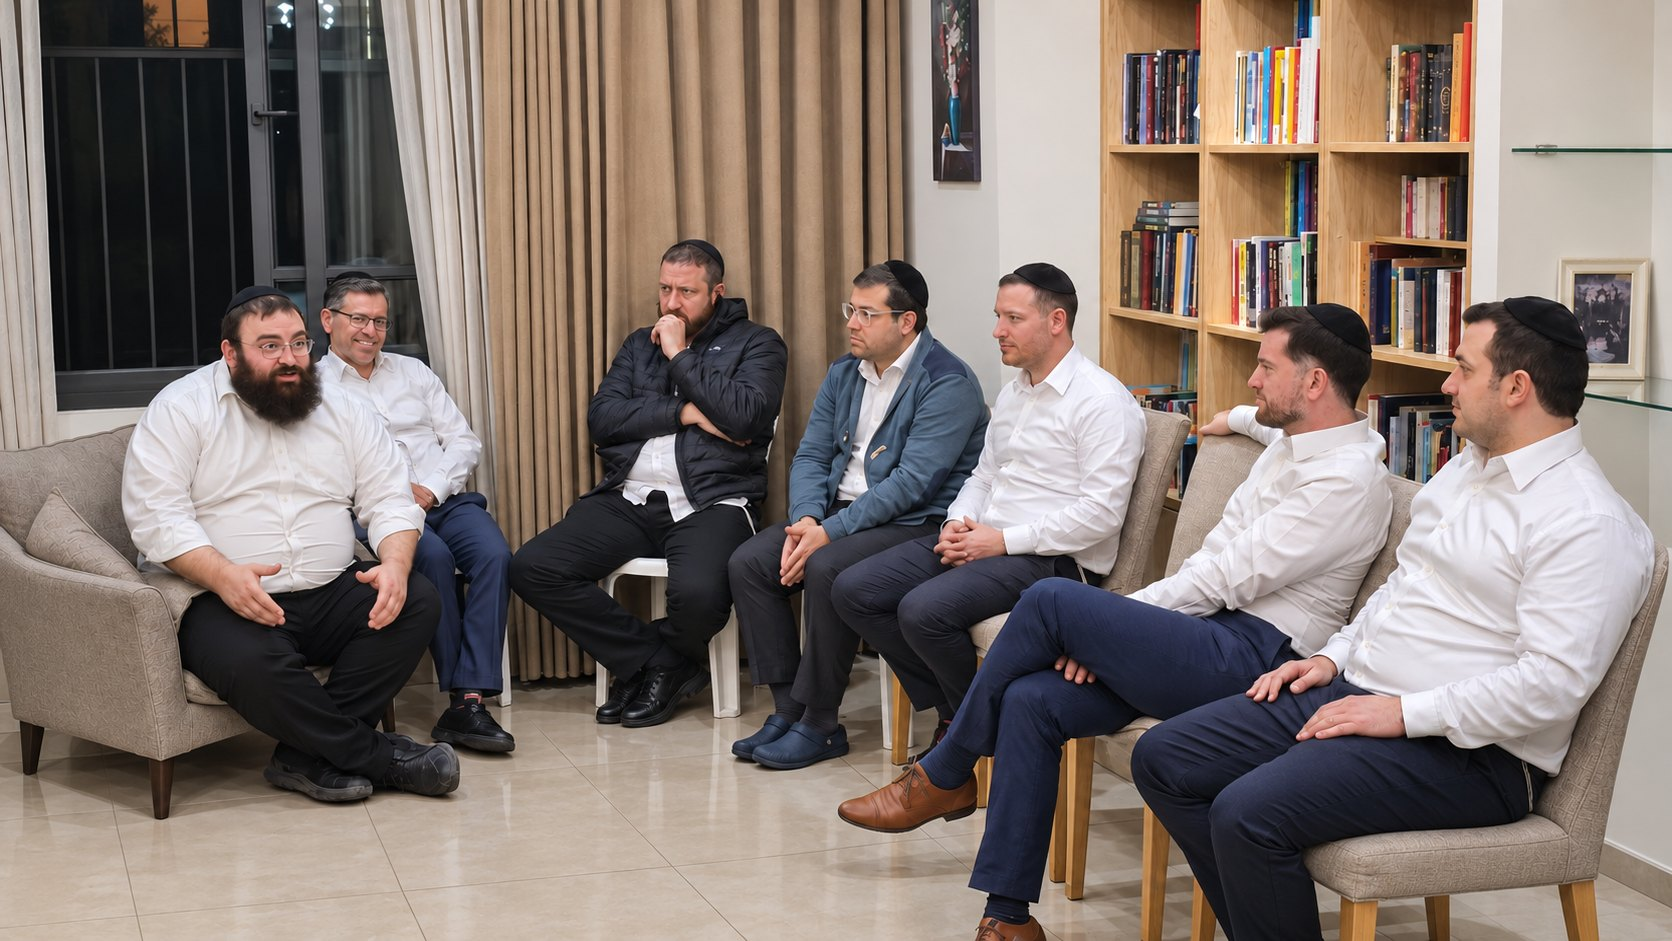
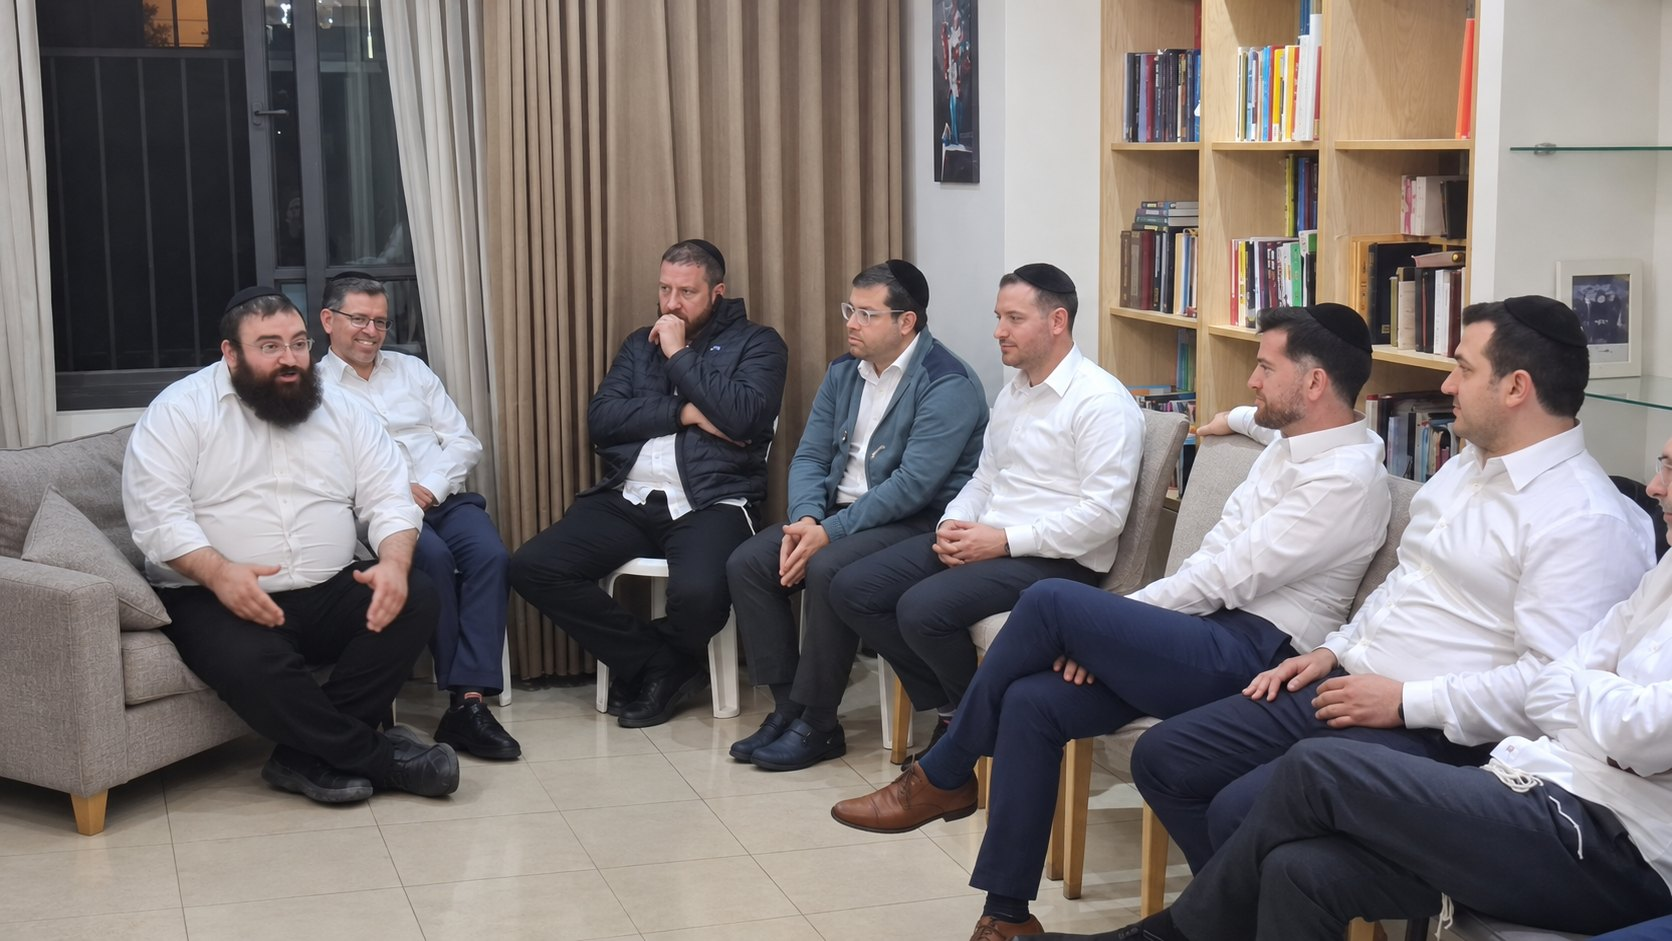
Use the updated group discussion photo

diff --git a/index.html b/index.html
@@ -14,7 +14,7 @@
     <meta property="og:type" content="website">
     <meta property="og:locale" content="he_IL">
     <meta property="og:url" content="https://lehanech.co.il/">
-    <meta property="og:image" content="https://lehanech.co.il/images/hero-group-discussion.jpg">
+    <meta property="og:image" content="https://lehanech.co.il/images/hero-group-discussion.jpg?v=2">
     <meta name="twitter:card" content="summary_large_image">
     <meta name="twitter:title" content="שניאור רוכברגר | יועץ ארגוני חינוכי בציבור החרדי">
     <link rel="preconnect" href="https://fonts.googleapis.com">
@@ -54,7 +54,7 @@
     <!-- Hero -->
     <section id="home" class="hero">
         <div class="hero-media">
-            <img src="images/hero-group-discussion.jpg" alt="שניאור רוכברגר בשיחה עם קבוצת משתתפים" width="1672" height="941" fetchpriority="high">
+            <img src="images/hero-group-discussion.jpg?v=2" alt="שניאור רוכברגר בשיחה עם קבוצת משתתפים" width="1672" height="941" fetchpriority="high">
         </div>
         <div class="container hero-inner">
             <div class="hero-copy">
